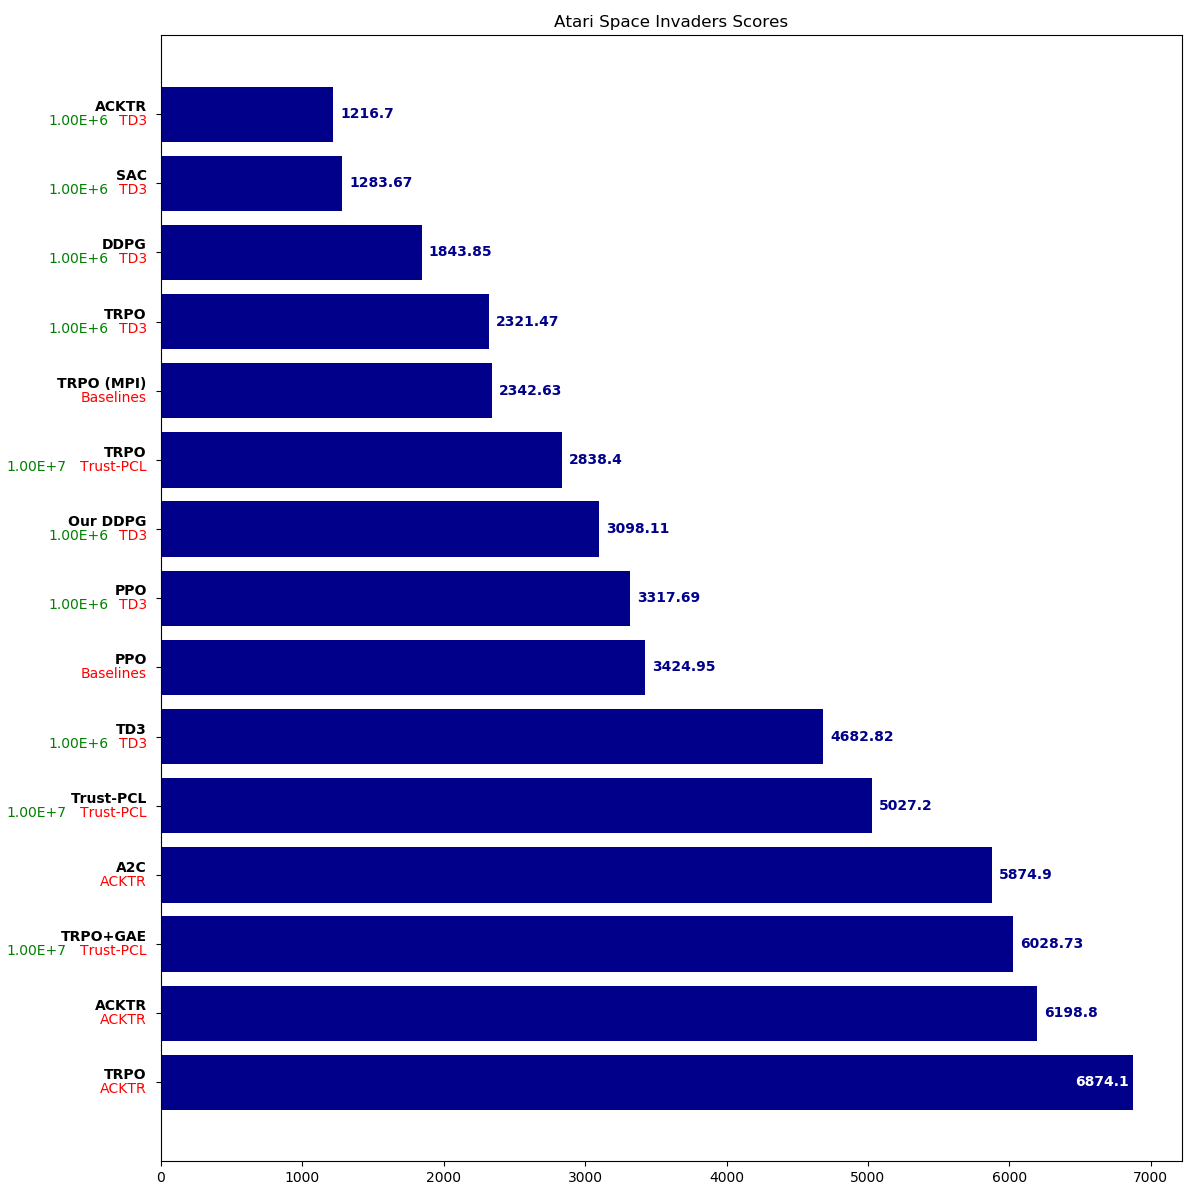
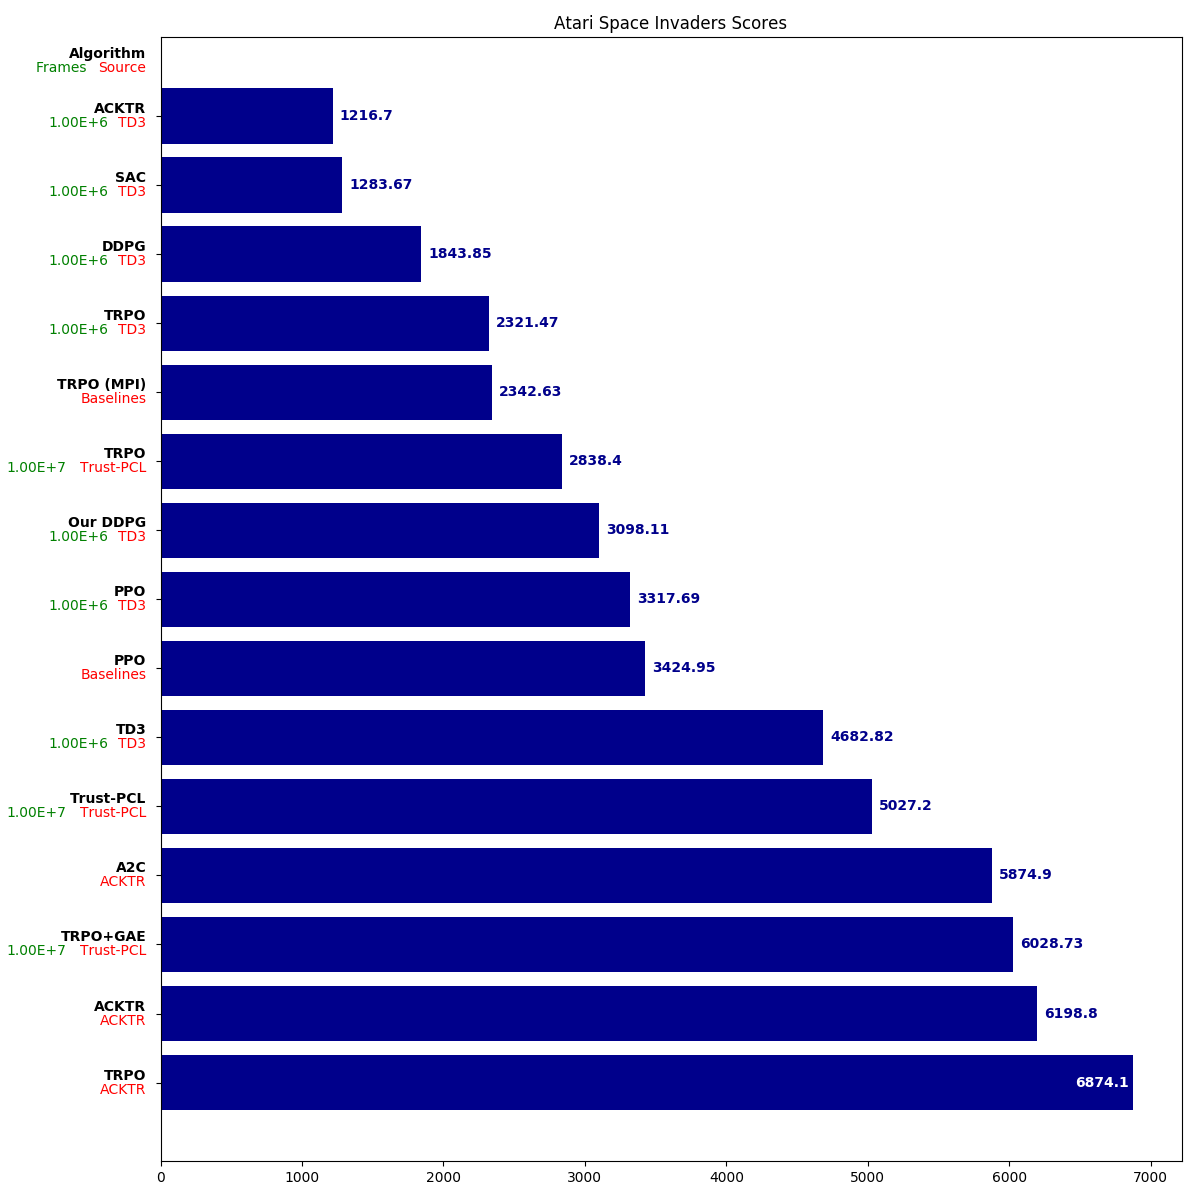
Add legends for labels in bar plots (#54)
* Add legends for labels

* Update README plots

diff --git a/example_plot.py b/example_plot.py
@@ -67,6 +67,40 @@ def set_score_text(fig, ax, bar, entry):
         score_text.set_color(color)
 
 
+def set_label_legends(fig, ax, bars, BBOX_TO_BAR_UNIT):
+    origin_x = bars[-1].get_x()
+    origin_y = bars[-1].get_y() + bars[-1].get_height()
+
+    algo_text = ax.text(
+        x=origin_x - 100,
+        y=origin_y + 0.4,
+        s='Algorithm',
+        color='black',
+        fontweight='bold',
+        ha='right',
+        va='bottom'
+    )
+    source_text = ax.text(
+        x=origin_x - 100,
+        y=origin_y + bars[-1].get_height() - 0.4,
+        s='Source',
+        color='red',
+        ha='right',
+        va='top'
+    )
+    source_text_x = source_text.get_position()[0]
+    source_text_width = source_text.get_window_extent(renderer=fig.canvas.get_renderer()).width
+
+    frames_text = ax.text(
+        x=source_text_x - source_text_width * BBOX_TO_BAR_UNIT - 50,
+        y=origin_y + bars[-1].get_height() - 0.4,
+        s='Frames',
+        color='green',
+        ha='right',
+        va='top'
+    )
+
+
 def env_barplot(filter, plot_title, plot_name):
     entries = rldb.find_all(filter)
 
@@ -94,6 +128,10 @@ def env_barplot(filter, plot_title, plot_name):
     for i, (bar, entry) in enumerate(zip(bars, sorted_entries)):
         set_label(fig, ax, bar, entry, BBOX_TO_BAR_UNIT)
         set_score_text(fig, ax, bar, entry)
+
+    # Add label legends
+    set_label_legends(fig, ax, bars, BBOX_TO_BAR_UNIT)
+
 
     plt.tight_layout()
     plt.savefig('docs/{}.png'.format(plot_name))
